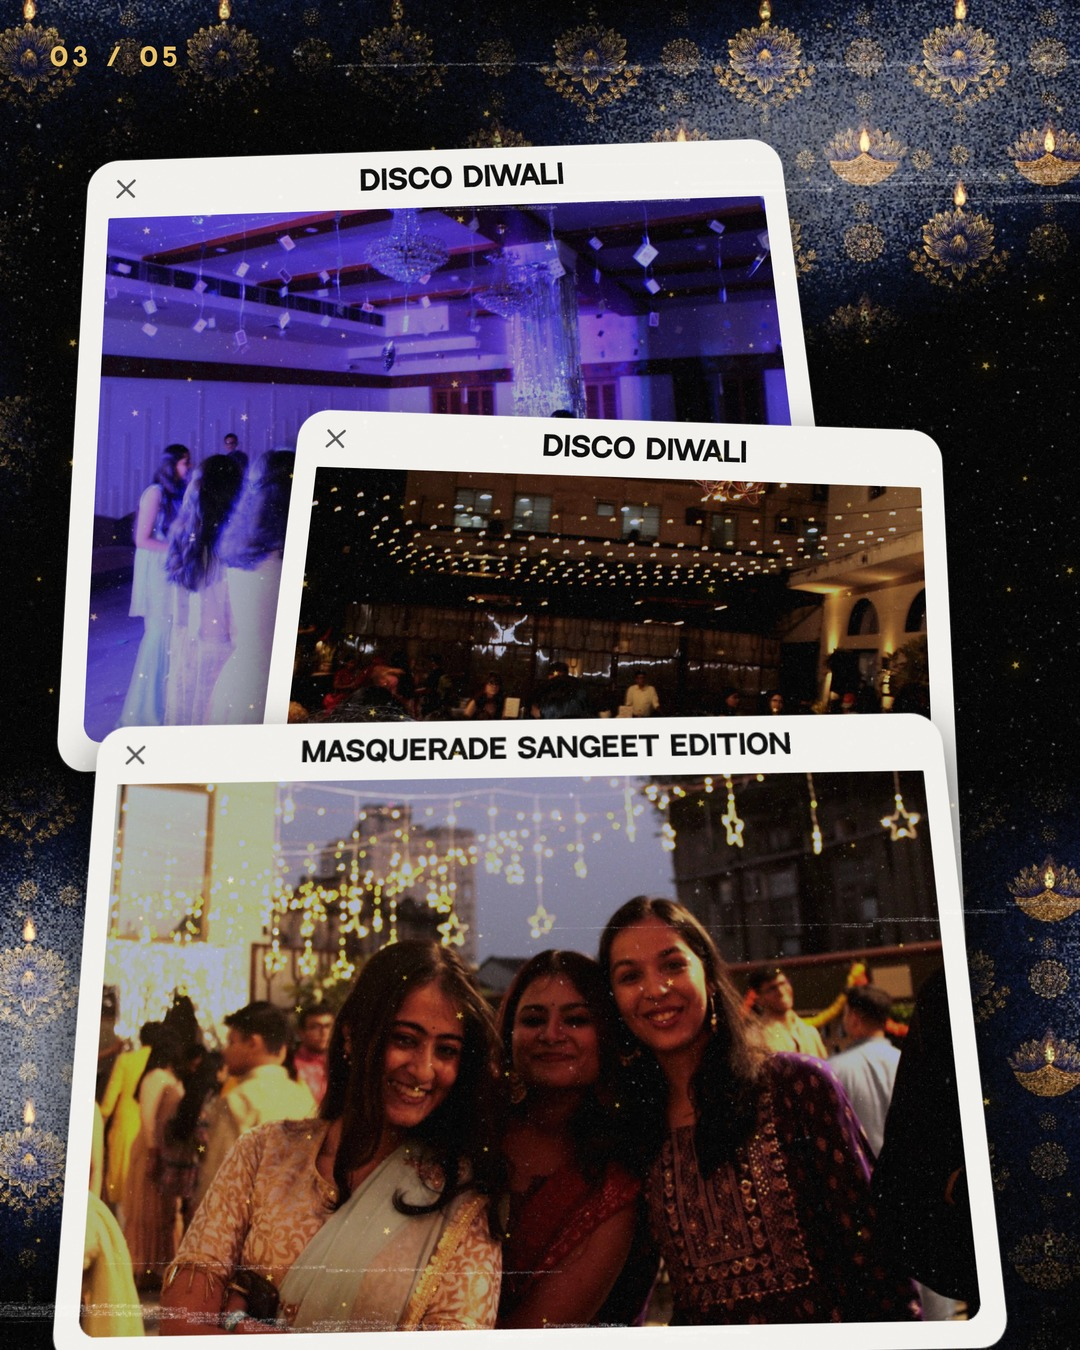
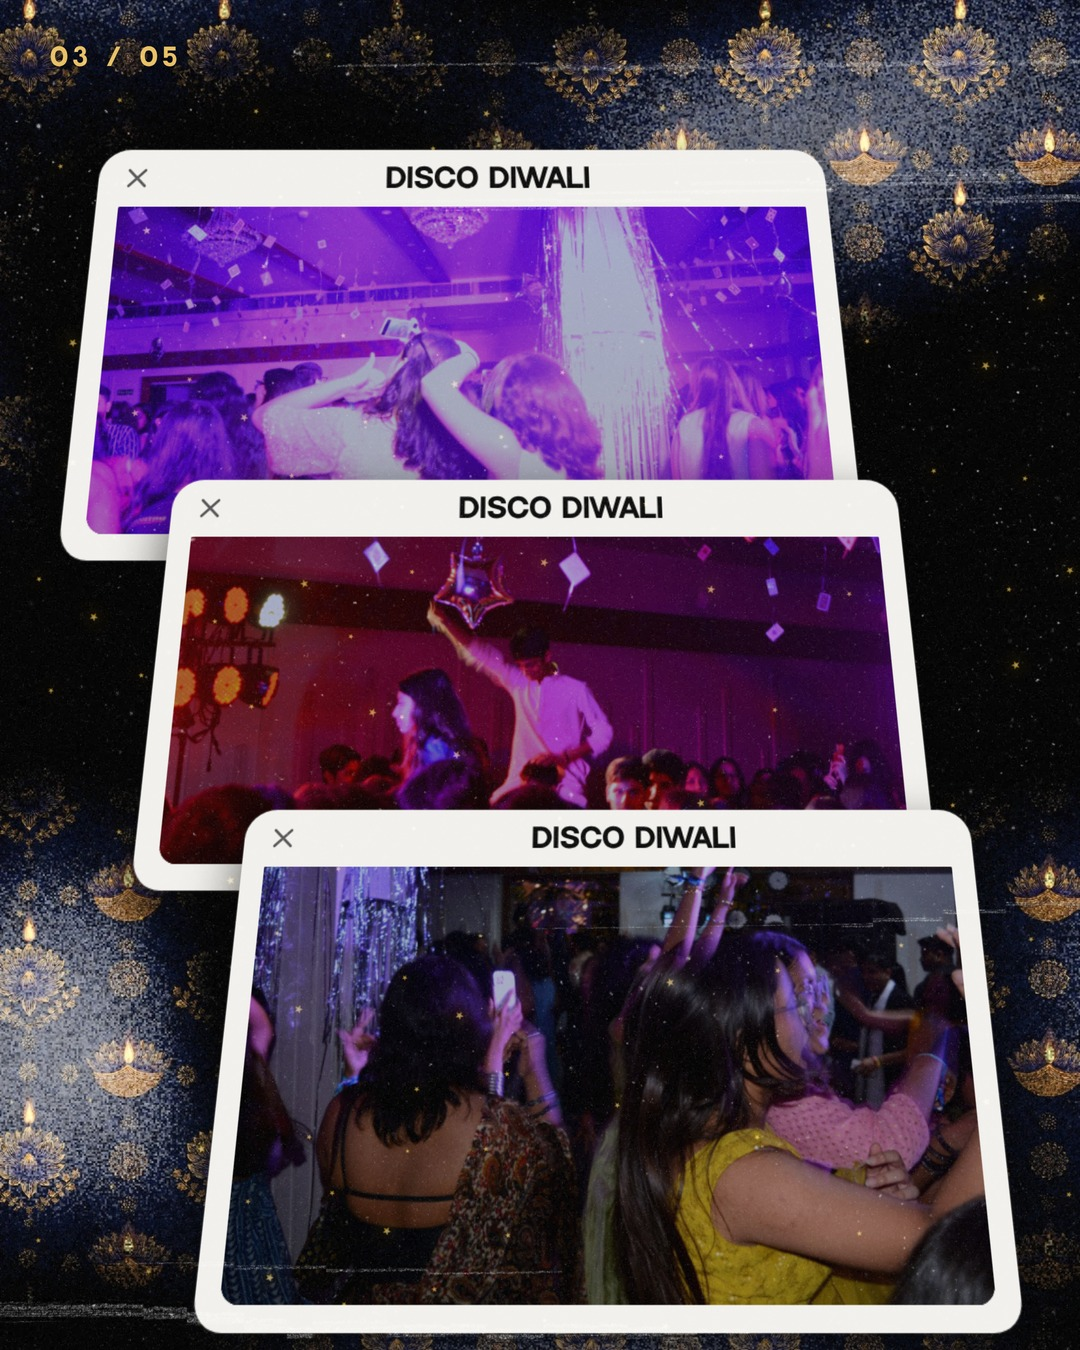
Disco Diwali window carousel: slide 3 as a regular cascade with the new hall photos
Claude-Session: https://claude.ai/code/session_01HW9NLUoNVqWbubcRN9wD4m

diff --git a/scratchpad/dd_window_carousel.py b/scratchpad/dd_window_carousel.py
@@ -151,13 +151,20 @@ def slide2():
     return s
 
 
+PHOTO3 = os.path.join(ROOT, "engine", "assets", "img", "events", "disco-diwali-hall-2026-10-14")
+
+
 def slide3():
+    """A regular cascade: three EQUAL windows, no roll, one tilt, one title, stepping 73px right and 330px down. The earlier pile mixed three
+    widths, three rolls and two titles, which read as misaligned rather than loose."""
     s = Slide(3)
     s.ground()
     s.index_tag()
-    s.window("w1", 90, 150, 690, 540, s.photo("08", "50% 85%"), z=10, tilt=14, roll=-2, bar_text="DISCO DIWALI")
-    s.window("w2", 300, 420, 640, 590, s.photo("09", "50% 55%", bright=1.5), z=11, tilt=14, roll=2, bar_text="DISCO DIWALI")
-    s.window("w3", 100, 720, 840, 570, s.photo("06", "50% 30%", bright=1.7), z=12, tilt=12, roll=-1, bar_text="MASQUERADE SANGEET EDITION")
+    pics = (("07_pink-glare-girls-backs-phone.jpg", "50% 45%"), ("09_boy-on-shoulders-star-balloon.jpg", "50% 40%"),
+            ("03_girls-dancing-yellow-top.jpg", "50% 35%"))
+    for i, (name, focus) in enumerate(pics):
+        s.window(f"w{i + 1}", 102 + 73 * i, 150 + 330 * i, 720, 380 if i < 2 else 470,
+                 s.photo(os.path.join(PHOTO3, name), focus), z=10 + i, tilt=16, bar_text="DISCO DIWALI")
     return s
 
 

diff --git a/engine/assets/img/events/README.md b/engine/assets/img/events/README.md
@@ -46,3 +46,21 @@ The same hall (tinsel pillars, hanging playing cards, silver star balloons, crea
 ## Not stored
 
 Still missing: the string-light courtyard with a girl in a yellow outfit. Re-upload it as a file to add it.
+
+## disco-diwali-hall-2026-10-14/ (logged 2026-10-14)
+
+Supplied by the user for the Disco Diwali carousel. Playing-card and silver-star hall, silver tinsel pillars, stage par lights. Likely the Masquerade/cards-themed edition hall; the exact event and date are not confirmed. Eight are 2000x1333 landscape, one is 1333x2000 portrait.
+
+| File | Content |
+|---|---|
+| 01_dancers-silver-pillar-purple.jpg | Dancers by a silver tinsel pillar, purple light, card garlands overhead. |
+| 02_crowd-teal-kurta-purple.jpg | Dense crowd, teal kurta in the left foreground, girl in profile front centre. |
+| 03_girls-dancing-yellow-top.jpg | Two dancers close up, one in a yellow top, paisley shawl at left, hands raised behind. |
+| 04_pink-ceiling-chandelier-phone.jpg | Magenta wash, chandeliers and hanging cards, two dancers with a raised phone. |
+| 05_boys-crowd-green-light.jpg | Green and pink light, crowd of teenagers close up, a girl filming on a phone. |
+| 06_blue-room-crowd-faces.jpg | Blue-lit hall, silver pillar, a crowd of young faces looking at the camera. |
+| 07_pink-glare-girls-backs-phone.jpg | Washed pink and violet, two dancers seen from behind, one with a phone, tinsel column. |
+| 08_boy-on-shoulders-stage-lights-portrait.jpg | Portrait. A child on shoulders against green and orange par lights, star balloons. |
+| 09_boy-on-shoulders-star-balloon.jpg | A boy in a white kurta reaching for a star balloon, orange par lights left. |
+
+Standing caveat applies: many people in these frames look like minors, and none has a consent record. Check before public use.
